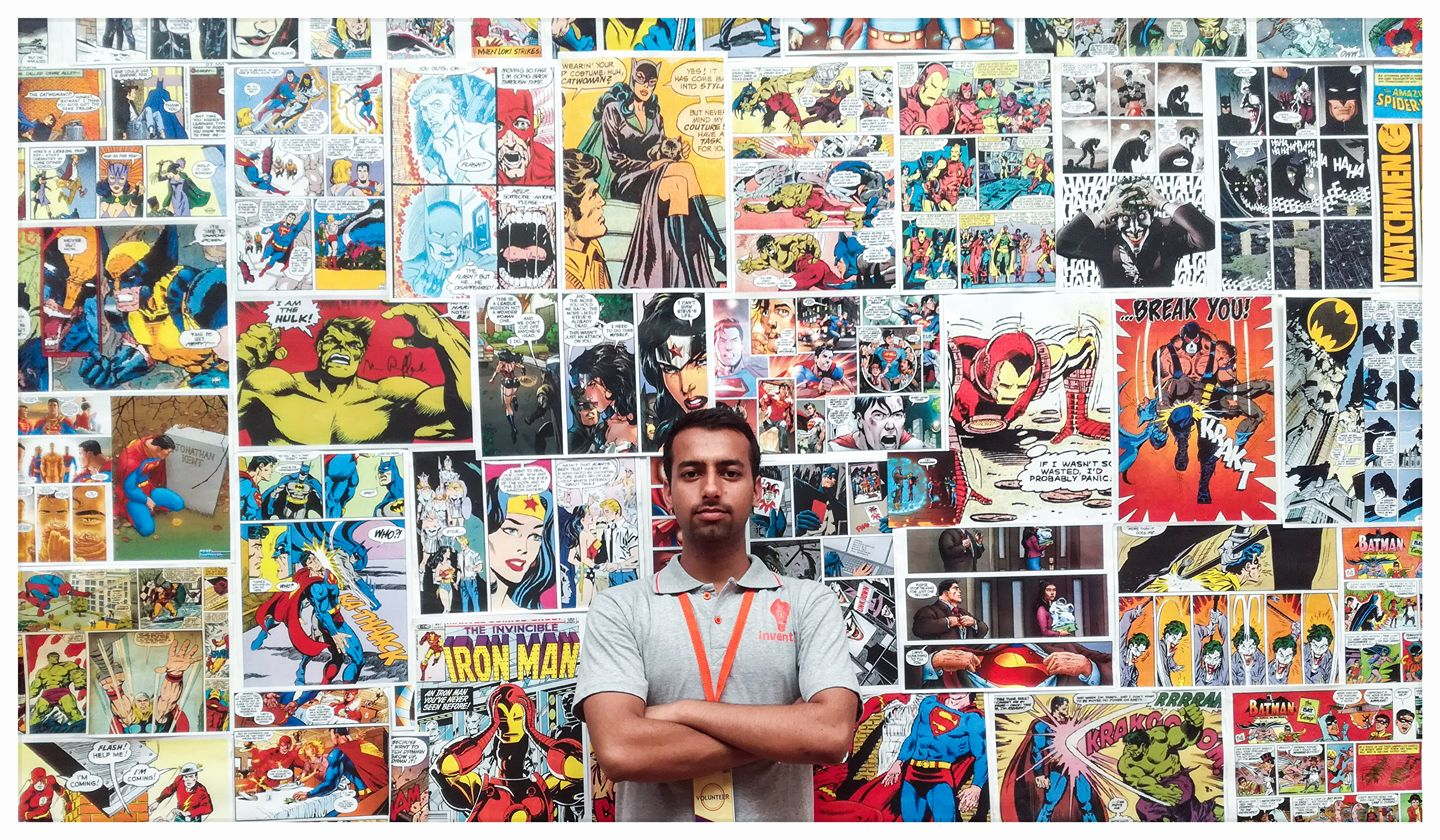
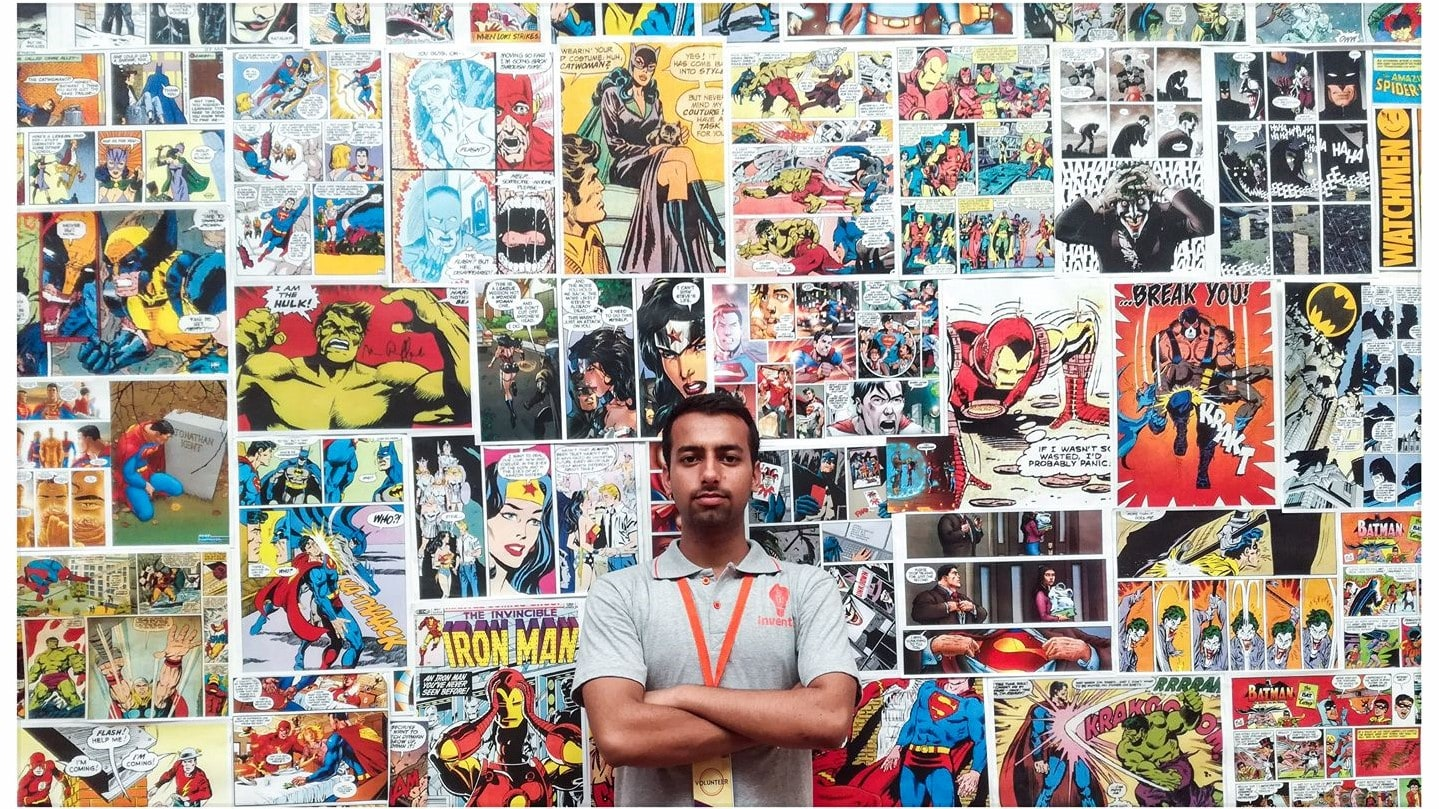
optimized multimedia assets
Compressed and resized the image assets for optimal experience

diff --git a/index.html b/index.html
@@ -100,7 +100,7 @@ div.desc {
           <a class="nav-link js-scroll-trigger" href="#awards">Awards</a>
         </li>
         <li class="nav-item">
-          <a class="nav-link js-scroll-trigger" href="#activities">Activities</a>
+          <a class="nav-link js-scroll-trigger" href="#gallary">Gallary</a>
         </li>
       </ul>
     </div>
@@ -348,9 +348,18 @@ div.desc {
       </div>
     </section>
 
-    <section class="resume-section p-3 p-lg-5 d-flex align-items-center" id="activities">
+    <section class="resume-section p-3 p-lg-5 d-flex align-items-center" id="gallary">
       <div class="w-100">
-        <h2 class="mb-5">Activities</h2>
+        <h2 class="mb-5">Gallary</h2>
+
+        <div class="responsive">
+          <div class="gallery">
+            <a target="_blank">
+              <img src="img/shar_trip.jpg" alt="ISRO eduational trip" width="600" height="00">
+            </a>
+            <div class="desc">Educational Trip to SHAR, Indian Space Research Organization (ISRO) | Sriharikota High Altitude Range, ISRO (2019)</div>
+          </div>
+        </div>
 
         <div class="responsive">
           <div class="gallery">
@@ -366,7 +375,16 @@ div.desc {
             <a target="_blank">
               <img src="img/comic_strip.jpg" alt="Comic Strip" width="600" height="400">
             </a>
-            <div class="desc">The Comic Strip Corner I volunteerd in organizing | My college's Technical Fest (2017)</div>
+            <div class="desc">The Comic Selfie Zone I organized as a volunteer | My college's Technical Fest (2017)</div>
+          </div>
+        </div>
+
+        <div class="responsive">
+          <div class="gallery">
+            <a target="_blank">
+              <img src="img/school_captain.jpg" alt="School Captain" width="600" height="400">
+            </a>
+            <div class="desc">One of the only pictures that I have from my school days | Kendriya Vidyalaya No. 1, Udhampur (2016)</div>
           </div>
         </div>
 
